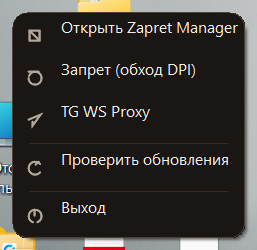
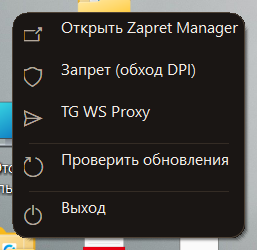
Значки меню — штатные иконки Segoe MDL2 вместо кривых линий
- окно, щит, самолётик (Telegram), обновление, питание из системного шрифта
- размер глифа подстраивается под DPI, при отсутствии шрифта значки просто не рисуются
- служебный ключ --glyph-test для подбора иконок

diff --git a/src/Menu.cs b/src/Menu.cs
@@ -126,51 +126,46 @@ namespace ZapretManager
         }
     }
 
-    /// <summary>Простые значки для пунктов меню (рисуются линиями, без шрифтов).</summary>
+    /// <summary>Значки пунктов меню из Segoe MDL2 Assets: ровные, штатного размера.</summary>
     public static class MenuGlyph
     {
-        public static void Draw(Graphics g, string kind, Rectangle box, Color color)
+        private static readonly System.Collections.Generic.Dictionary<int, Font> Fonts = new System.Collections.Generic.Dictionary<int, Font>();
+
+        private static string Code(string kind)
         {
-            g.SmoothingMode = SmoothingMode.AntiAlias;
-            int cx = box.X + box.Width / 2;
-            int cy = box.Y + box.Height / 2;
-            int s = Math.Min(box.Width, box.Height);
-            using (Pen p = new Pen(color, Math.Max(1.4f, s / 11f)))
+            switch (kind)
             {
-                p.StartCap = LineCap.Round;
-                p.EndCap = LineCap.Round;
-                switch (kind)
-                {
-                    case "open":
-                        g.DrawRectangle(p, cx - s / 4, cy - s / 4, s / 2, s / 2);
-                        g.DrawLine(p, cx - s / 4, cy - s / 4, cx + s / 5, cy + s / 5);
-                        break;
-                    case "shield":
-                        g.DrawArc(p, cx - s / 3, cy - s / 3, s * 2 / 3, s * 2 / 3, 200, 340);
-                        g.DrawLine(p, cx - s / 3, cy - s / 3, cx + s / 5, cy - s / 3);
-                        break;
-                    case "telegram":
-                        g.DrawLines(p, new Point[]
-                        {
-                            new Point(cx - s / 3, cy),
-                            new Point(cx + s / 3, cy - s / 4),
-                            new Point(cx - s / 10, cy + s / 3),
-                            new Point(cx - s / 10, cy + s / 8)
-                        });
-                        break;
-                    case "refresh":
-                        g.DrawArc(p, cx - s / 3, cy - s / 3, s * 2 / 3, s * 2 / 3, 40, 280);
-                        g.DrawLine(p, cx + s / 5, cy - s / 3, cx + s / 12, cy - s / 6);
-                        break;
-                    case "exit":
-                        g.DrawArc(p, cx - s / 3, cy - s / 3, s * 2 / 3, s * 2 / 3, 110, 320);
-                        g.DrawLine(p, cx, cy - s / 3, cx, cy);
-                        break;
-                }
+                case "open": return "\uE8A7";      // окно со стрелкой
+                case "shield": return "\uEA18";    // щит
+                case "telegram": return "\uE724";   // отправить (самолётик)
+                case "refresh": return "\uE72C";   // круговая стрелка
+                case "exit": return "\uE7E8";      // питание
+                default: return "";
             }
         }
-    }
 
+        public static void Draw(Graphics g, string kind, Rectangle box, Color color)
+        {
+            string code = Code(kind);
+            if (code.Length == 0) return;
+            int size = Math.Max(10, box.Height);
+            Font font;
+            if (!Fonts.TryGetValue(size, out font))
+            {
+                try
+                {
+                    font = new Font("Segoe MDL2 Assets", size, FontStyle.Regular, GraphicsUnit.Pixel);
+                    Fonts[size] = font;
+                }
+                catch
+                {
+                    return;
+                }
+            }
+            TextRenderer.DrawText(g, code, font, box, color,
+                TextFormatFlags.HorizontalCenter | TextFormatFlags.VerticalCenter | TextFormatFlags.NoPrefix);
+        }
+    }
     /// <summary>Служебный предпросмотр меню для скриншотов (--menu-shot).</summary>
     public static class MenuPreview
     {
@@ -225,6 +220,44 @@ namespace ZapretManager
             {
                 Log.Warn("Снимок меню: " + ex.Message);
             }
+        }
+    }
+
+    /// <summary>Служебный тест: таблица глифов Segoe MDL2/Fluent для подбора значков.</summary>
+    public static class GlyphTest
+    {
+        public static void Run(string path)
+        {
+            int[] codes = new int[]
+            {
+                0xE700, 0xE713, 0xE72C, 0xE7E8, 0xE8A7, 0xE8AB, 0xE8B7, 0xE8C8,
+                0xE71A, 0xE768, 0xE769, 0xEA18, 0xE83D, 0xE72E, 0xE8F1, 0xE8F2,
+                0xE8FB, 0xE9D9, 0xE7BA, 0xE8A1, 0xE71B, 0xE777, 0xE778, 0xE7EE
+            };
+            Font font = new Font("Segoe MDL2 Assets", 22f, FontStyle.Regular, GraphicsUnit.Point);
+            Font small = new Font("Consolas", 10f);
+            int cell = 90, cols = 6;
+            int rows = (codes.Length + cols - 1) / cols;
+            using (Bitmap bmp = new Bitmap(cols * cell, rows * cell))
+            using (Graphics g = Graphics.FromImage(bmp))
+            {
+                g.Clear(Color.FromArgb(26, 22, 20));
+                g.TextRenderingHint = System.Drawing.Text.TextRenderingHint.ClearTypeGridFit;
+                for (int i = 0; i < codes.Length; i++)
+                {
+                    int x = (i % cols) * cell, y = (i / cols) * cell;
+                    using (SolidBrush b = new SolidBrush(Color.FromArgb(244, 238, 231)))
+                    {
+                        g.DrawString(((char)codes[i]).ToString(), font, b, x + 24, y + 14);
+                    }
+                    using (SolidBrush b = new SolidBrush(Color.FromArgb(255, 194, 74)))
+                    {
+                        g.DrawString(codes[i].ToString("X4"), small, b, x + 26, y + 62);
+                    }
+                }
+                bmp.Save(path, System.Drawing.Imaging.ImageFormat.Png);
+            }
+            Log.Info("Таблица глифов: " + path);
         }
     }
 }

diff --git a/src/Program.cs b/src/Program.cs
@@ -41,6 +41,7 @@ namespace ZapretManager
             bool restoreUacMode = HasFlag(args, "--restore-uac");
             bool cleanupMode = HasFlag(args, "--cleanup");
             string menuShotPath = FindArgValue(args, "--menu-shot");
+            string glyphTestPath = FindArgValue(args, "--glyph-test");
             string appWatch = FindArgValue(args, "--app-watch");
             AppInfo.TrayMode = HasFlag(args, "--tray");
             AppInfo.AutostartMode = HasFlag(args, "--autostart");
@@ -122,6 +123,12 @@ namespace ZapretManager
                 System.Collections.Generic.List<string> guardAdded = SiteGuard.Process(guardInstall, guardConfig, guardHosts, true,
                     delegate(string message) { Log.Warn("Сторож: " + message); });
                 Log.Info("Сторож: добавлено доменов — " + guardAdded.Count + ".");
+                return;
+            }
+            if (!string.IsNullOrEmpty(glyphTestPath))
+            {
+                Theme.Apply("dark");
+                GlyphTest.Run(glyphTestPath);
                 return;
             }
             if (!string.IsNullOrEmpty(menuShotPath))
